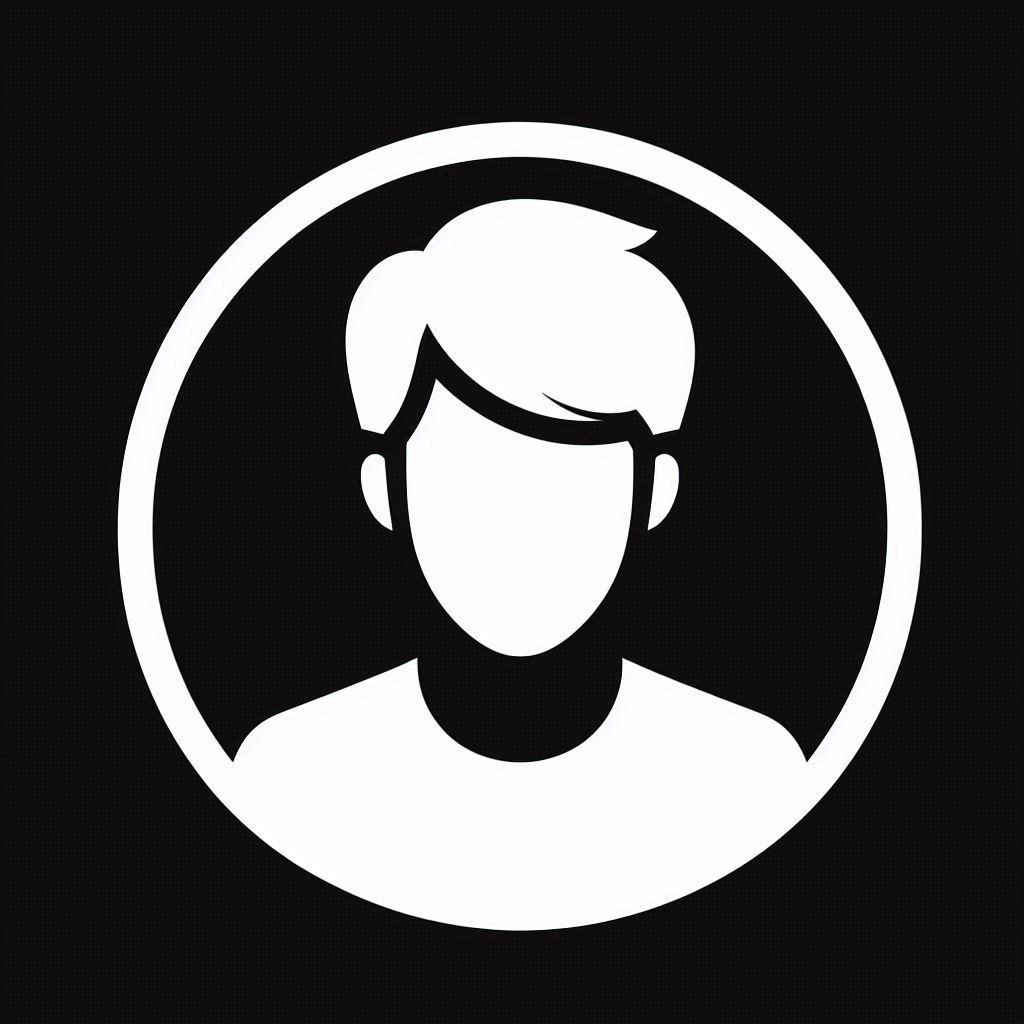
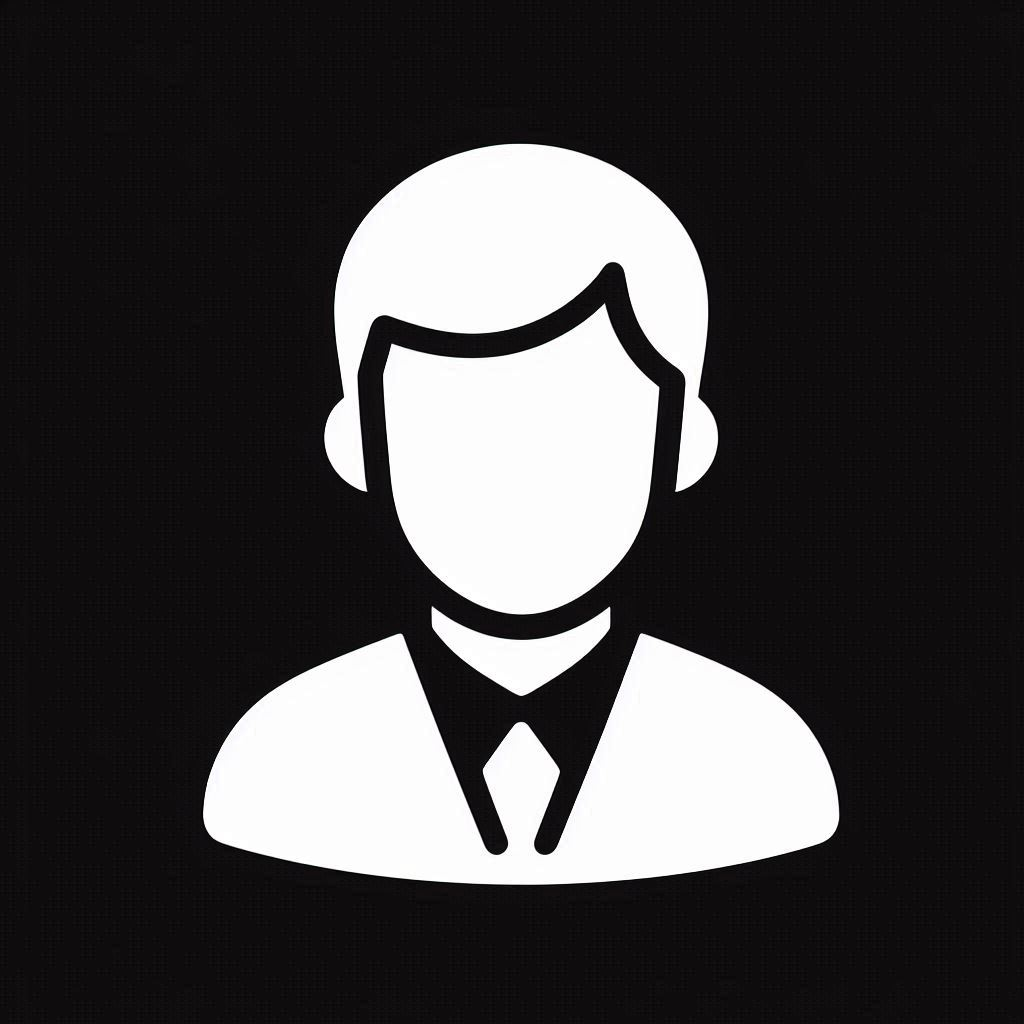
cambio icono login

Changed region(s): [[0.0938, 0.0938, 0.9062, 0.9062], [0.4062, 0.6875, 0.4375, 0.7188]]

diff --git a/lib/main.dart b/lib/main.dart
@@ -374,7 +374,7 @@ class _LoginPageState extends State<LoginPage> {
     return Scaffold(
       body: Container(
         decoration: const BoxDecoration(
-          color: Colors.black, // Fondo negro
+          color: Color.fromARGB(255, 30, 31, 36), // Fondo negro
         ),
         child: SafeArea(
           child: Center(
@@ -385,8 +385,8 @@ class _LoginPageState extends State<LoginPage> {
                 children: [
                   // Asegúrate de que la imagen exista o reemplázala por una disponible
                   Image.asset(
-                    'assets/images/user2.jpg',
-                    height: 170,
+                    'assets/images/user4.jpg',
+                    height: 190,
                   ),
                   const SizedBox(height: 30),
                   TextField(
@@ -446,8 +446,8 @@ class _LoginPageState extends State<LoginPage> {
                   ElevatedButton(
                     onPressed: _login,
                     style: ElevatedButton.styleFrom(
-                      foregroundColor: Colors.white,
-                      backgroundColor: const Color(0xFF242424),
+                      foregroundColor: const Color.fromARGB(255, 255, 255, 255),
+                      backgroundColor: const Color.fromARGB(255, 71, 72, 77),
                       padding: const EdgeInsets.symmetric(
                           horizontal: 50, vertical: 15),
                       shape: RoundedRectangleBorder(
@@ -456,7 +456,7 @@ class _LoginPageState extends State<LoginPage> {
                     ),
                     child: const Text(
                       'Acceder',
-                      style: TextStyle(fontSize: 16),
+                      style: TextStyle(fontSize: 17),
                     ),
                   ),
                 ],
